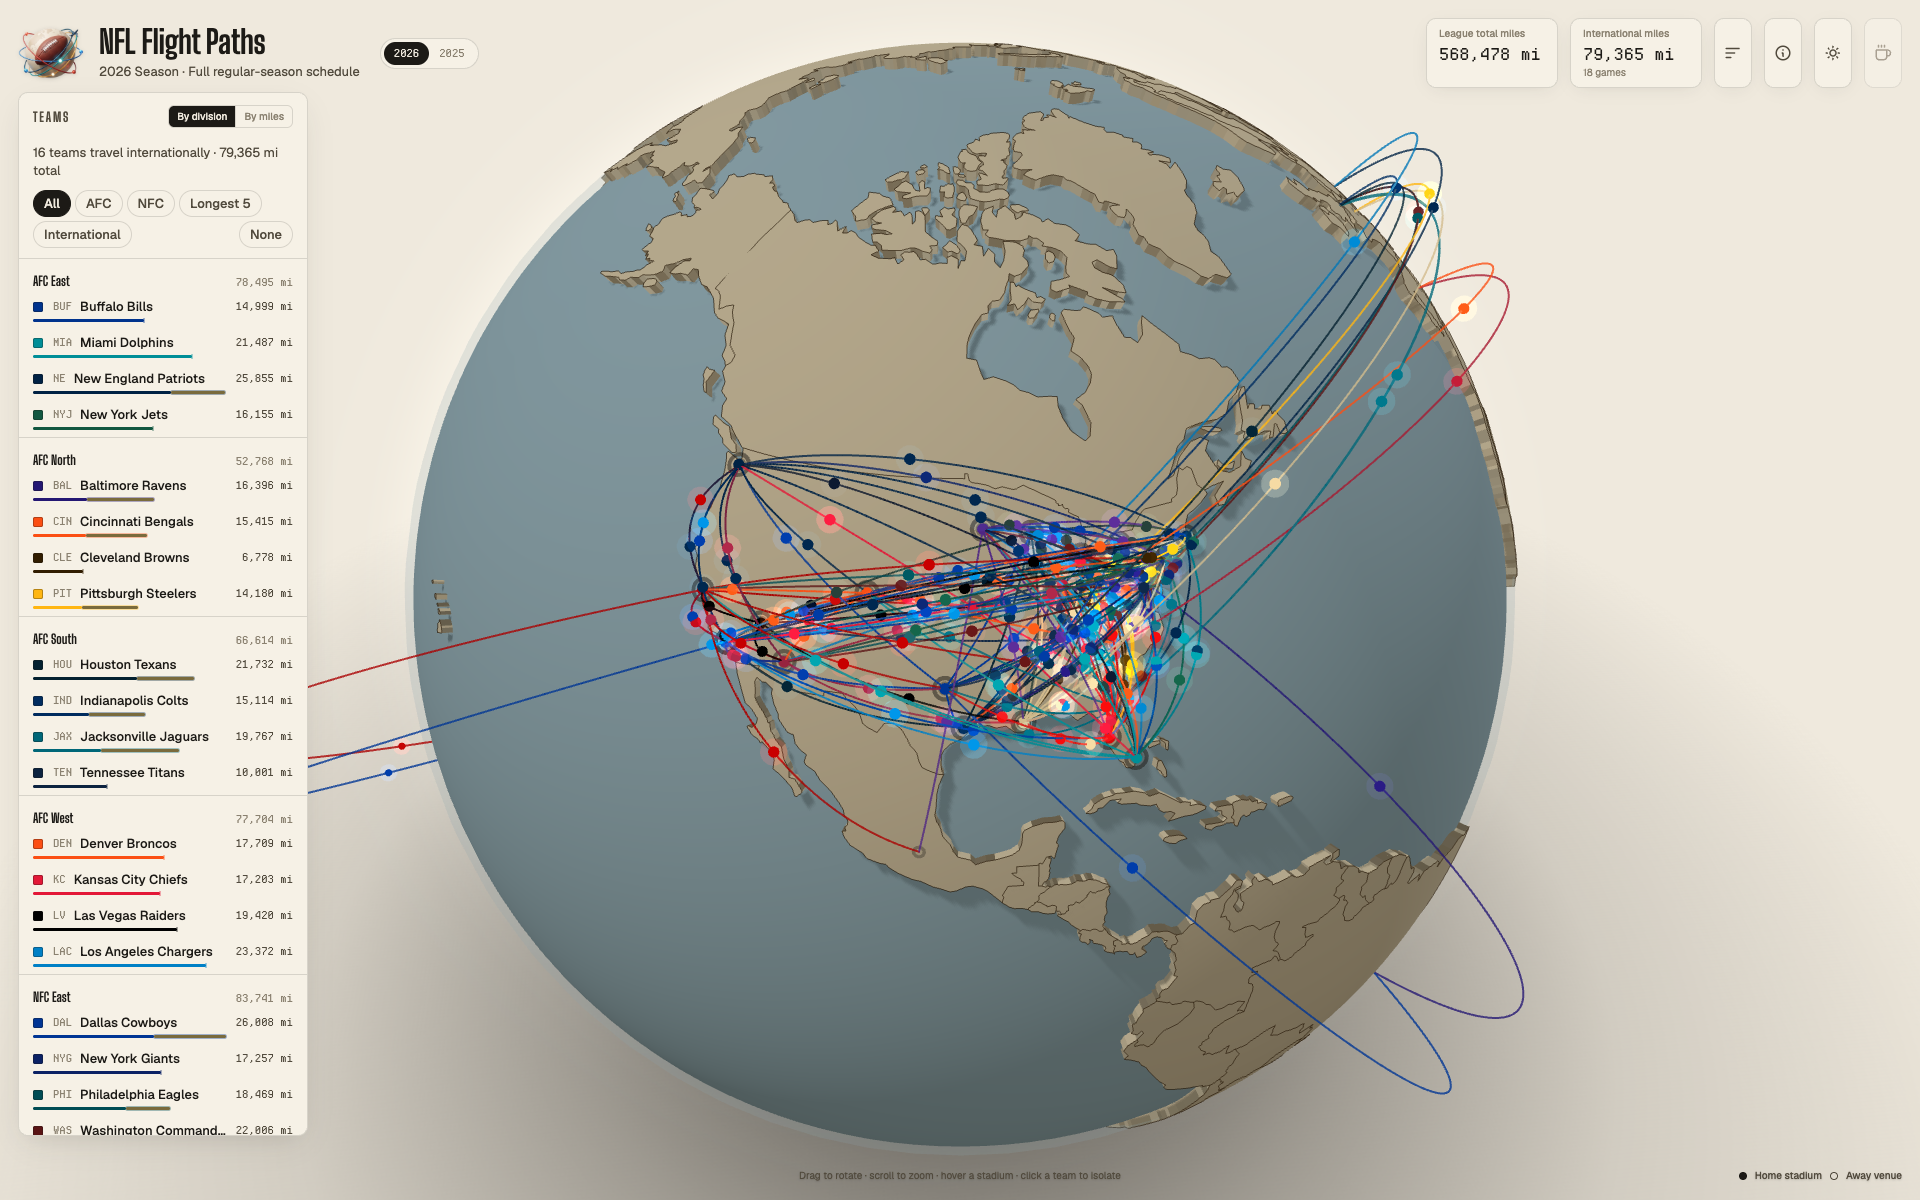
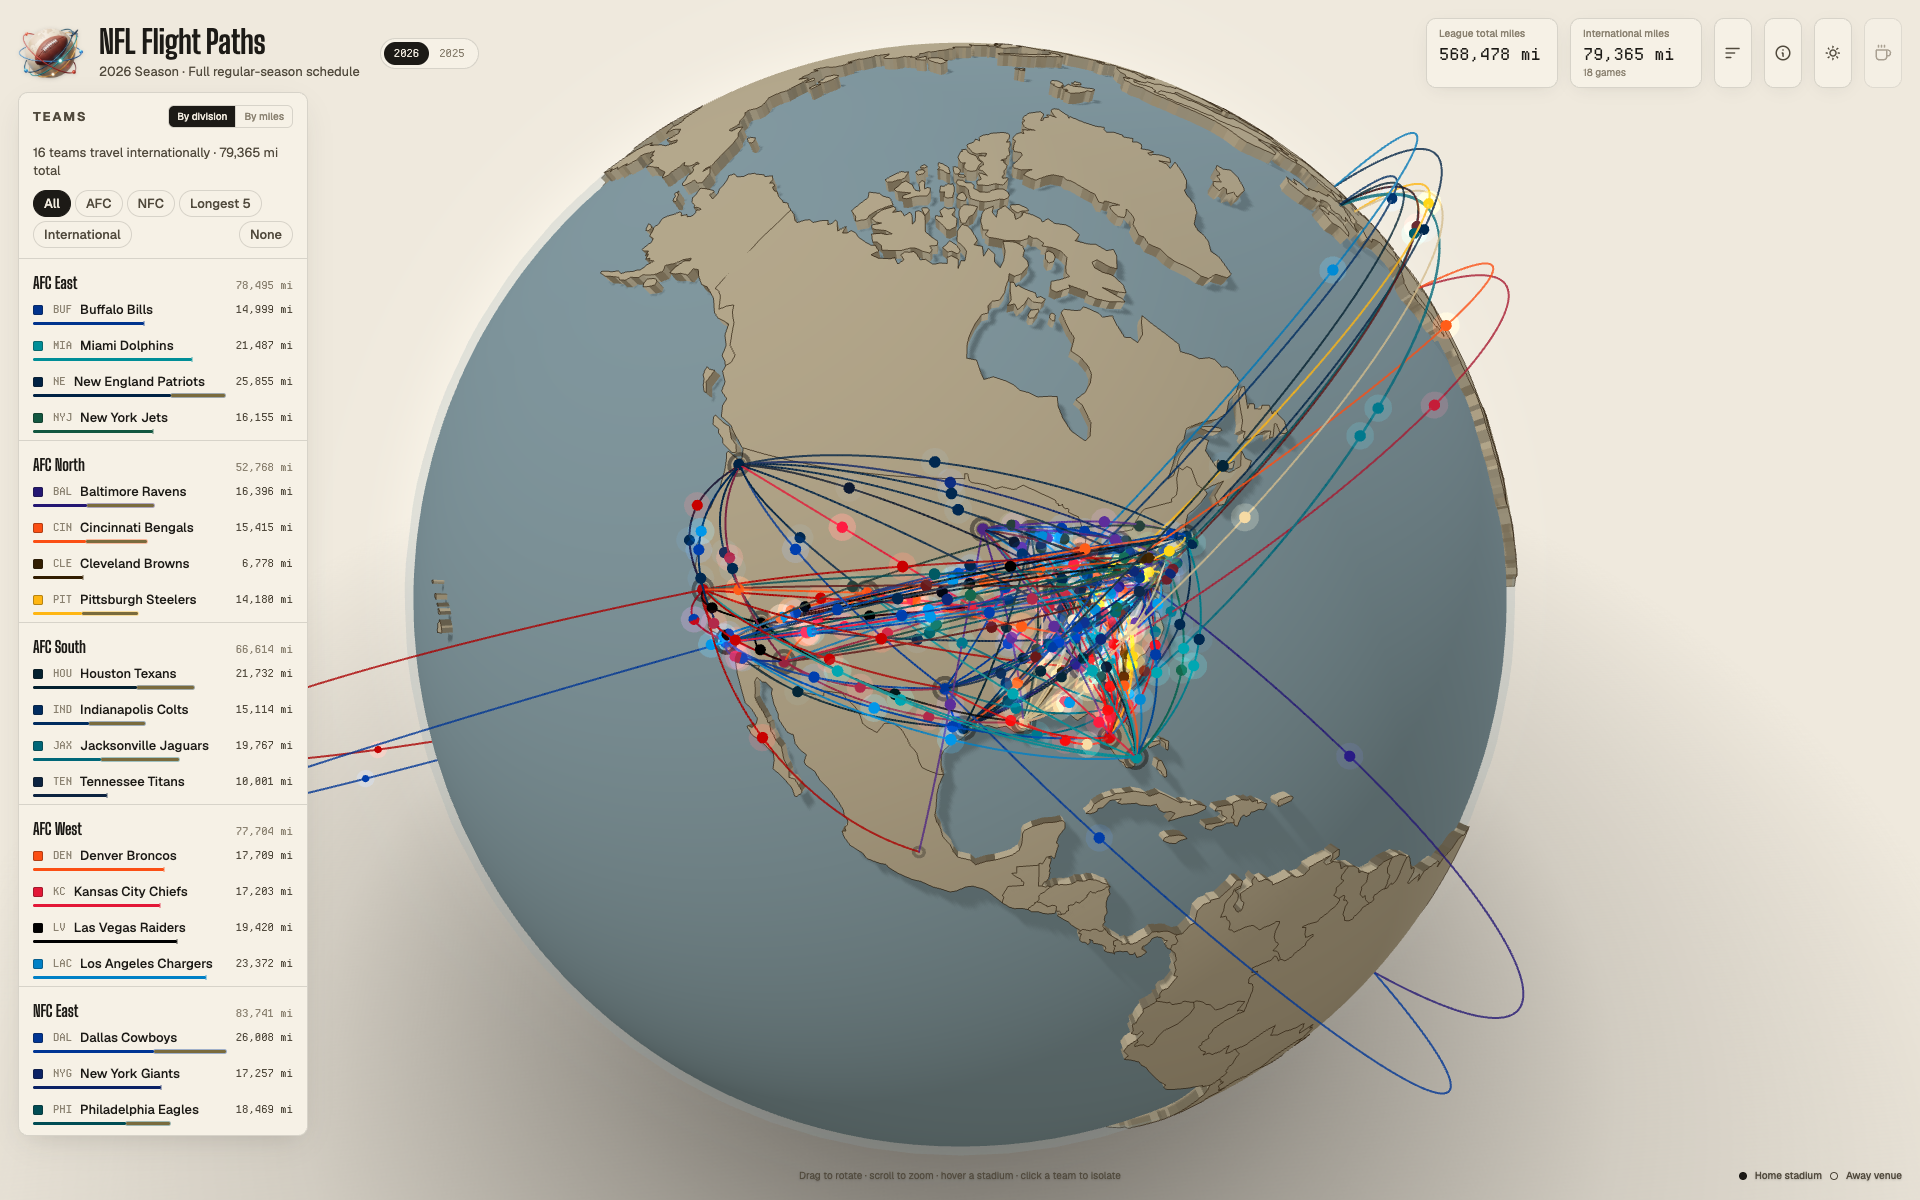
Typeset: right-size the surfaces that fought Big Shoulders at small scale
Three targeted fixes after the Big Shoulders Display landing. The
display family carries the H1 and the modal titles cleanly at 20px+,
but it's condensed-by-design and was overstaying its welcome on three
small-size surfaces that read as cramped.

Panel kicker (.panel__head h2, "TEAMS"):
  font-family:  --font-display  →  --font-ui (Geist)
  Kicker grammar belongs to the body family. Tracked uppercase at 13px
  wants legibility, not display authority. Geist 700 carries the role
  while the H1 keeps the broadcast voice.

Division headers (.team-group__name, "AFC East" / "AFC North" / ...):
  font-size:    --text-meta (13px)  →  --text-base (16px)
  Stays on Big Shoulders, sized up to give condensed letterforms room.
  Now reads as a real second-tier heading instead of a too-tight label
  competing with the kicker. Added a small letter-spacing adjustment
  (-0.008em) to match the H1's optical balance.

Methodology modal subheads (.methodology__body h3, "Distance formula" / ...):
  font-family:  --font-display  →  --font-ui (Geist)
  font-weight:  650  →  700
  Subheads inside body prose don't want display voice. Geist 700 carries
  hierarchy via weight contrast against the surrounding paragraph text
  without the condensed letterforms fighting readability.

Modal h2 titles, stadium tooltip title, and H1 all stay on Big
Shoulders. The display family now owns the surfaces it's good at (20px
section headings, the H1) and lets the body family carry kicker and
[…]

diff --git a/styles.css b/styles.css
@@ -381,10 +381,13 @@ img.topbar__mark {
 }
 
 /* The one kept kicker. Every other tracked-uppercase label in the chrome
-   was demoted so this slot can carry the voice on its own. */
+   was demoted so this slot can carry the voice on its own. Body family
+   (Geist) at small tracked uppercase: Big Shoulders condenses too tightly
+   at 13px to carry the kicker grammar; this slot wants legibility, not
+   display authority. */
 .panel__head h2 {
   margin: 0;
-  font-family: var(--font-display);
+  font-family: var(--font-ui);
   font-size: var(--text-meta);
   font-weight: 700;
   letter-spacing: 0.14em;
@@ -572,10 +575,14 @@ img.topbar__mark {
   padding-top: 8px;
 }
 
+/* Division header: a real second-tier heading inside the panel, sized up
+   from the kicker grammar so Big Shoulders has room to read. The condensed
+   letterforms become an asset at 16px instead of a liability at 13px. */
 .team-group__name {
   font-family: var(--font-display);
-  font-size: var(--text-meta);
+  font-size: var(--text-base);
   font-weight: 700;
+  letter-spacing: -0.008em;
   color: var(--ink);
 }
 
@@ -1162,10 +1169,14 @@ img.topbar__mark {
   scrollbar-color: var(--ink-mute) transparent;
 }
 
+/* Body-content subheads in the methodology modal. Body family (Geist)
+   keeps subhead authority via weight contrast against the surrounding
+   paragraph text; Big Shoulders at 16px was reading dense inside a body
+   block where the display voice doesn't belong. */
 .methodology__body h3 {
-  font-family: var(--font-display);
+  font-family: var(--font-ui);
   font-size: var(--text-base);
-  font-weight: 650;
+  font-weight: 700;
   color: var(--ink);
   margin: 20px 0 6px;
 }
